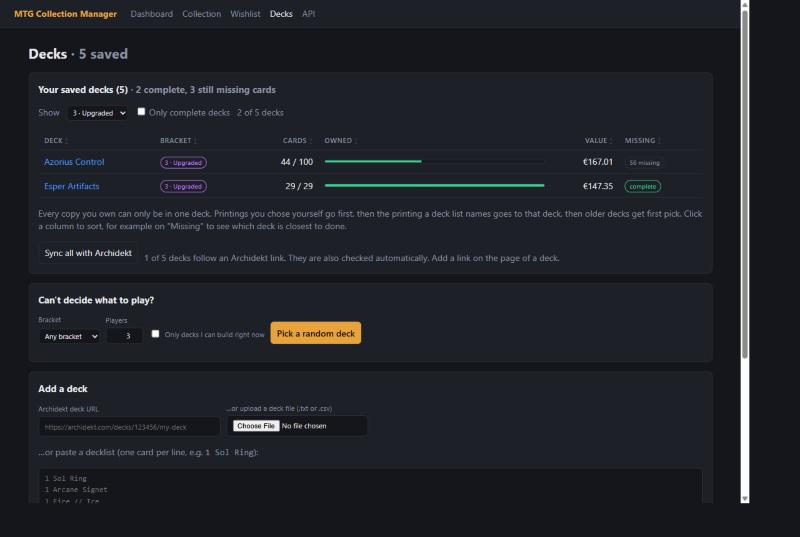
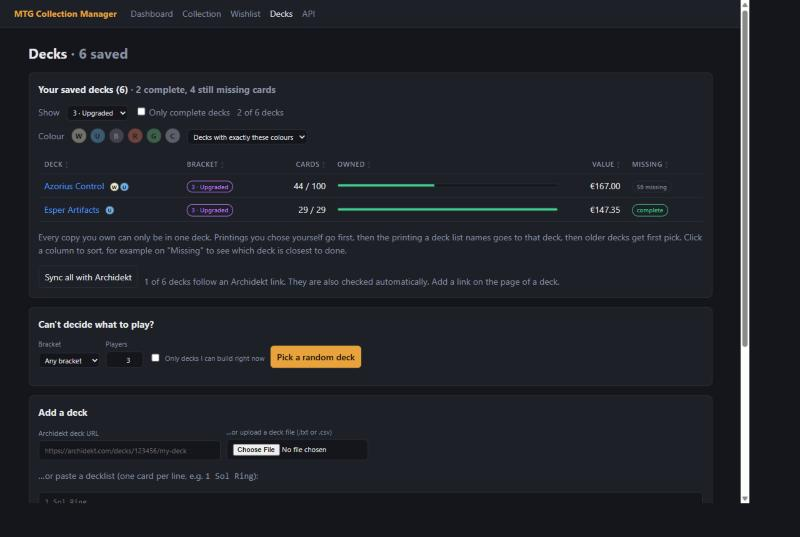
Decks: filter on colour
- A deck gets the colour identity of its cards: colours known from the
  collection, the rest looked up on Scryfall. It is worked out again when
  cards are added or an Archidekt sync adds or removes cards.
- Colour buttons on the saved decks: decks with exactly, any of, or within
  the chosen colours. Every deck shows its colours.
- The API lists the colours of a deck and takes ?colors= and ?color_match=.
- README screenshots updated.

diff --git a/app/templates/deck.html b/app/templates/deck.html
@@ -84,6 +84,20 @@
     <label class="check muted"><input id="deck-complete-filter" type="checkbox">&nbsp;Only complete decks</label>
     <span id="deck-filter-count" class="muted"></span>
   </div>
+  <div class="toolbar search-bar color-bar">
+    <span class="muted">Colour</span>
+    <span id="deck-colors" class="color-filter" role="group" aria-label="Filter decks on colour">
+      {% for letter, label in [("W", "White"), ("U", "Blue"), ("B", "Black"), ("R", "Red"), ("G", "Green"), ("C", "Colourless")] %}
+      <button type="button" class="pip pip-{{ letter }}" data-color="{{ letter }}" aria-pressed="false" title="{{ label }}">{{ letter }}</button>
+      {% endfor %}
+    </span>
+    <select id="deck-color-mode" aria-label="How the chosen colours must match">
+      <option value="exact">Decks with exactly these colours</option>
+      <option value="any">Decks with any of these colours</option>
+      <option value="within">Decks within these colours</option>
+    </select>
+    <button type="button" class="link" id="deck-colors-reset" hidden>Clear colours</button>
+  </div>
   <p id="deck-filter-empty" class="muted" hidden>No decks match that filter.</p>
   <table id="deck-list">
     <thead>
@@ -100,8 +114,10 @@
     {% for s in summaries %}
     <tr data-bracket="{{ s.deck.bracket if s.deck.bracket else 'none' }}" data-complete="{{ 1 if s.complete else 0 }}"
         data-order="{{ loop.index }}" data-name="{{ s.deck.name }}" data-bracket-number="{{ s.deck.bracket or '' }}"
-        data-cards="{{ s.total_cards }}" data-percent="{{ s.percent }}" data-value="{{ s.value }}" data-missing="{{ s.needed - s.usable }}">
-      <td><a href="/decks/{{ s.deck.id }}">{{ s.deck.name }}</a>{% if s.deck.archidekt_id %} <span class="badge linked" title="Follows its deck on Archidekt">↻ Archidekt</span>{% endif %}</td>
+        data-cards="{{ s.total_cards }}" data-percent="{{ s.percent }}" data-value="{{ s.value }}" data-missing="{{ s.needed - s.usable }}"
+        data-colors="{{ '?' if s.deck.colors is none else s.deck.colors }}">
+      <td><a href="/decks/{{ s.deck.id }}">{{ s.deck.name }}</a>
+        {% if s.deck.colors is not none %}<span class="pips" title="Colour identity">{% for letter in s.deck.colors or "C" %}<span class="pip pip-{{ letter }}">{{ letter }}</span>{% endfor %}</span>{% endif %}{% if s.deck.archidekt_id %} <span class="badge linked" title="Follows its deck on Archidekt">↻ Archidekt</span>{% endif %}</td>
       <td>{% if s.bracket_name %}<span class="badge bracket">{{ s.deck.bracket }} · {{ s.bracket_name }}</span>{% else %}<span class="muted">–</span>{% endif %}</td>
       <td class="num" title="Cards you have / cards in the deck, basic lands included">{{ s.total_owned }} / {{ s.total_cards }}</td>
       <td style="width: 35%"><div class="progress slim"><div style="width: {{ s.percent }}%"></div></div></td>
@@ -408,16 +424,41 @@
   const completeFilter = document.getElementById("deck-complete-filter");
   const deckListRows = [...document.querySelectorAll("#deck-list tr[data-bracket]")];
 
+  // Colour filter: the pressed buttons, and how a deck's colours must match them.
+  const deckColorButtons = [...document.querySelectorAll("#deck-colors button")];
+  const deckColorMode = document.getElementById("deck-color-mode");
+  const deckColorReset = document.getElementById("deck-colors-reset");
+  const chosenDeckColors = () => deckColorButtons.filter((b) => b.getAttribute("aria-pressed") === "true").map((b) => b.dataset.color);
+  function deckColorMatch(text, chosen) {
+    if (chosen.length === 0) return true;
+    if (text === "?") return false;  // colours not worked out yet
+    const colors = new Set(text);
+    const want = chosen.filter((c) => c !== "C");
+    if (deckColorMode.value === "within") return [...colors].every((c) => want.includes(c));
+    if (deckColorMode.value === "exact") return colors.size === want.length && want.every((c) => colors.has(c));
+    return want.some((c) => colors.has(c)) || (colors.size === 0 && chosen.includes("C"));
+  }
+  try {
+    const saved = JSON.parse(localStorage.getItem("deck-colors") || "{}");
+    for (const button of deckColorButtons) button.setAttribute("aria-pressed", String((saved.colors || []).includes(button.dataset.color)));
+    if (saved.mode) deckColorMode.value = saved.mode;
+    if (!deckColorMode.value) deckColorMode.value = "exact";
+  } catch (error) {}
+
   function filterDecks() {
+    const chosen = chosenDeckColors();
+    deckColorReset.hidden = chosen.length === 0;
     let shown = 0;
     for (const row of deckListRows) {
       const match =
         (!bracketFilter.value || row.dataset.bracket === bracketFilter.value) &&
-        (!completeFilter.checked || row.dataset.complete === "1");
+        (!completeFilter.checked || row.dataset.complete === "1") &&
+        deckColorMatch(row.dataset.colors, chosen);
       row.hidden = !match;
       if (match) shown += 1;
     }
-    const filtered = bracketFilter.value || completeFilter.checked;
+    try { localStorage.setItem("deck-colors", JSON.stringify({ colors: chosen, mode: deckColorMode.value })); } catch (error) {}
+    const filtered = bracketFilter.value || completeFilter.checked || chosen.length > 0;
     document.getElementById("deck-filter-count").textContent = filtered ? `${shown} of ${deckListRows.length} decks` : "";
     document.getElementById("deck-filter-empty").hidden = shown > 0;
     document.getElementById("deck-list").hidden = shown === 0;
@@ -430,6 +471,17 @@
   } catch (error) {}
   bracketFilter.addEventListener("change", filterDecks);
   completeFilter.addEventListener("change", filterDecks);
+  for (const button of deckColorButtons) {
+    button.addEventListener("click", () => {
+      button.setAttribute("aria-pressed", String(button.getAttribute("aria-pressed") !== "true"));
+      filterDecks();
+    });
+  }
+  deckColorMode.addEventListener("change", filterDecks);
+  deckColorReset.addEventListener("click", () => {
+    for (const button of deckColorButtons) button.setAttribute("aria-pressed", "false");
+    filterDecks();
+  });
   filterDecks();
 </script>
 <script>

diff --git a/app/services/decks.py b/app/services/decks.py
@@ -727,6 +727,8 @@ def apply_archidekt(session: Session, deck: Deck, data: dict) -> SyncResult:
         result.other.append(f"renamed from {deck.name}")
         deck.name = name
     deck.synced_at = utcnow()
+    if result.added or result.removed:
+        deck.colors = None  # worked out again by fill_deck_colors
     session.add(deck)
     session.flush()
     return result
@@ -752,6 +754,40 @@ async def sync_all_decks(session: Session, pause: float = 1.0) -> list[SyncResul
             logger.warning("Could not sync deck %s with Archidekt: %s", deck.name, exc)
             results.append(SyncResult(deck, error=str(exc)))
     return results
+
+
+async def fill_deck_colors(session: Session, scryfall: ScryfallClient) -> int:
+    """Work out the colour identity of decks that have none yet: the colours of all their cards.
+
+    Colours of cards in the collection are known already; the rest are looked up on Scryfall.
+    Returns the number of decks that got their colours."""
+    pending = session.exec(select(Deck).where(Deck.colors == None)).all()  # noqa: E711
+    if not pending:
+        return 0
+    entries = session.exec(select(DeckEntry).where(DeckEntry.deck_id.in_([deck.id for deck in pending]))).all()
+    known: dict[str, str] = {}
+    for card in session.exec(select(Card).where(Card.colors != None)).all():  # noqa: E711
+        for key in _names(card.name):
+            known.setdefault(key, card.colors)
+    lookups: dict[str, dict] = {}
+    for entry in entries:
+        if not _names(entry.name) & known.keys():
+            lookups.setdefault(name_key(entry.name), {"id": entry.scryfall_id} if entry.scryfall_id else {"name": entry.name})
+    if lookups:
+        found, _ = await scryfall.get_collection(list(lookups.values()))
+        for data in found:
+            if data.colors is not None:
+                for key in _names(data.name):
+                    known.setdefault(key, data.colors)
+    for deck in pending:
+        colors = set()
+        for entry in entries:
+            if entry.deck_id == deck.id:
+                colors.update(next((known[key] for key in _names(entry.name) if key in known), ""))
+        deck.colors = "".join(c for c in "WUBRG" if c in colors)
+        session.add(deck)
+    session.commit()
+    return len(pending)
 
 
 def set_archidekt_link(session: Session, deck: Deck, url: str | None) -> bool:
@@ -826,6 +862,8 @@ async def add_card(
     entry = next((e for e in entries if _names(e.name) & _names(data.name)), None)
     if entry is None:
         entry = DeckEntry(deck_id=deck.id, name=data.name, quantity=0)
+        deck.colors = None  # worked out again by fill_deck_colors
+        session.add(deck)
     entry.quantity += quantity
     if set_code:  # the user named a printing: that is what this deck asks for from now on
         entry.set_code, entry.collector_number = data.set_code, data.collector_number

diff --git a/app/routers/api.py b/app/routers/api.py
@@ -325,7 +325,7 @@ def _deck_out(summary: decks.DeckSummary) -> DeckOut:
         cards_usable=summary.usable, complete=summary.complete, value=summary.value,
         bracket=summary.deck.bracket, bracket_name=summary.bracket_name, basic_land_count=summary.basic_lands,
         deck_size=summary.total_cards, deck_owned=summary.total_owned,
-        archidekt_url=decks.deck_url(summary.deck), synced_at=summary.deck.synced_at,
+        archidekt_url=decks.deck_url(summary.deck), synced_at=summary.deck.synced_at, colors=summary.deck.colors,
     )
 
 
@@ -340,12 +340,24 @@ def _deck_detail(session: Session, deck: Deck) -> DeckDetailOut:
 
 
 @router.get("/decks", response_model=list[DeckOut])
-def list_decks(bracket: int | None = None, session: Session = Depends(get_session)):
-    """The saved decks; `bracket` (1-5) keeps only the decks in that Commander bracket."""
+async def list_decks(
+    bracket: int | None = None,
+    colors: str | None = None,
+    color_match: Literal["any", "within", "exact"] = "any",
+    session: Session = Depends(get_session),
+    scryfall: ScryfallClient = Depends(get_scryfall),
+):
+    """The saved decks; `bracket` (1-5) keeps only the decks in that Commander bracket, `colors`
+    (letters from WUBRG, C for colourless) the decks with any, `within` or `exact`ly those colours."""
+    try:
+        await decks.fill_deck_colors(session, scryfall)
+    except ScryfallError:
+        session.rollback()  # the list still works, new decks just have no colours yet
     return [
         _deck_out(summary)
         for summary in decks.deck_summaries(session)
-        if bracket is None or summary.deck.bracket == bracket
+        if (bracket is None or summary.deck.bracket == bracket)
+        and (not colors or collection.color_match(summary.deck.colors, colors, color_match))
     ]
 
 

diff --git a/tests/test_api.py b/tests/test_api.py
@@ -446,3 +446,27 @@ async def test_colours_are_filled_in_for_cards_stored_earlier(session, scryfall,
     assert await fill_missing_colors(session, scryfall) == 1
     assert session.exec(select(Card).where(Card.scryfall_id == "id-fire")).one().colors == "UR"
     assert await fill_missing_colors(session, scryfall) == 0
+
+
+def test_filter_decks_on_colour(client):
+    client.post("/api/collection", json={"name": "Lim-Dûl's Vault"})  # colours known from the collection
+    grixis = client.post("/api/decks", json={"name": "Grixis", "decklist": "1 Lim-Dûl's Vault\n1 Fire // Ice\n1 Sol Ring"}).json()
+    client.post("/api/decks", json={"name": "Artifacts", "decklist": "1 Sol Ring\n1 Black Lotus"})
+
+    def names(**params):
+        return {d["name"]: d["colors"] for d in client.get("/api/decks", params=params).json()}
+
+    assert names() == {"Grixis": "UBR", "Artifacts": ""}  # Fire // Ice was looked up on Scryfall
+    assert names(colors="UBR", color_match="exact") == {"Grixis": "UBR"}
+    assert names(colors="R") == {"Grixis": "UBR"}
+    assert names(colors="C") == {"Artifacts": ""}
+    assert names(colors="UB", color_match="within") == {"Artifacts": ""}
+
+    page = client.get("/deck").text
+    assert 'data-colors="UBR"' in page and 'id="deck-colors"' in page
+
+    # A card added to a deck changes its colours.
+    artifacts = next(d for d in client.get("/api/decks").json() if d["name"] == "Artifacts")
+    client.post(f"/api/decks/{artifacts['id']}/cards", json={"name": "Fire // Ice"})
+    assert names()["Artifacts"] == "UR"
+    assert grixis["colors"] is None  # worked out when the decks are listed

diff --git a/app/routers/pages.py b/app/routers/pages.py
@@ -1,5 +1,6 @@
 """Server-rendered pages (Jinja2) and the HTML forms behind them."""
 
+import logging
 from pathlib import PurePath
 from urllib.parse import quote
 
@@ -19,6 +20,7 @@ from app.routers.api import load_deck
 from app.scryfall import CardRef, ScryfallClient, ScryfallError
 from app.services import collection, decks, stats, wishlist
 
+logger = logging.getLogger(__name__)
 router = APIRouter(include_in_schema=False)
 templates = Jinja2Templates(directory=BASE_DIR / "templates")
 
@@ -322,10 +324,22 @@ def _wishlist_refs(cards: list[str]) -> list[CardRef]:
 
 
 @router.get("/deck")
-def deck_page(request: Request, session: Session = Depends(get_session)):
+async def deck_page(
+    request: Request, session: Session = Depends(get_session), scryfall: ScryfallClient = Depends(get_scryfall)
+):
+    await _fill_deck_colors(session, scryfall)
     summaries = decks.deck_summaries(session)
     return render(request, "deck.html", rows=None, deck=None, summaries=summaries, brackets=decks.BRACKETS,
                   deck_data=_deck_data(summaries))
+
+
+async def _fill_deck_colors(session: Session, scryfall: ScryfallClient) -> None:
+    """New or changed decks get their colours; without Scryfall the list still shows, just without them."""
+    try:
+        await decks.fill_deck_colors(session, scryfall)
+    except ScryfallError as exc:
+        logger.warning("Could not work out deck colours: %s", exc)
+        session.rollback()
 
 
 def _deck_data(summaries: list[decks.DeckSummary]) -> list[dict]:

diff --git a/tests/test_decks.py b/tests/test_decks.py
@@ -742,6 +742,6 @@ def test_decks_can_be_sorted_on_missing_cards(client):
     for key in ("name", "bracketNumber", "cards", "percent", "value", "missing"):
         assert f'data-sort="{key}"' in page
     assert 'data-order="1" data-name="Burn" data-bracket-number="4"' in page
-    assert 'data-cards="5" data-percent="0" data-value="0' in page and 'data-missing="5">' in page
+    assert 'data-cards="5" data-percent="0" data-value="0' in page and 'data-missing="5"' in page
     assert 'data-order="2" data-name="Ramp"' in page and 'data-cards="11" data-percent="100" data-value="1.5" data-missing="0"' in page
     assert page.count('id="deck-list"') == 1 and "<tbody>" in page

diff --git a/app/jobs.py b/app/jobs.py
@@ -150,11 +150,14 @@ async def run_collection_update() -> None:
 
 
 async def run_fill_colors() -> None:
+    from app.services.decks import fill_deck_colors
+
     try:
         with Session(engine) as session:
             filled = await fill_missing_colors(session, deps.get_scryfall())
-        if filled:
-            logger.info("Colours filled in for %s cards", filled)
+            decks = await fill_deck_colors(session, deps.get_scryfall())
+        if filled or decks:
+            logger.info("Colours filled in for %s cards and %s decks", filled, decks)
     except Exception:
         logger.exception("Filling in colours failed")
 

diff --git a/app/database.py b/app/database.py
@@ -27,7 +27,7 @@ def add_missing_columns(target=None) -> None:
         return
     added = {
         "card": {"colors": "VARCHAR"},
-        "deck": {"bracket": "INTEGER", "archidekt_id": "INTEGER", "synced_at": "DATETIME"},
+        "deck": {"bracket": "INTEGER", "archidekt_id": "INTEGER", "synced_at": "DATETIME", "colors": "VARCHAR"},
         "deckentry": {
             "unassigned": "BOOLEAN NOT NULL DEFAULT 0",
             "set_code": "VARCHAR",

diff --git a/app/models.py b/app/models.py
@@ -78,6 +78,8 @@ class Deck(SQLModel, table=True):
     # The Archidekt deck this one follows: changes made there are taken over here.
     archidekt_id: int | None = None
     synced_at: dt.datetime | None = None
+    # Colour identity of its cards, letters in WUBRG order; None: to be worked out (again).
+    colors: str | None = None
 
 
 class DeckEntry(SQLModel, table=True):

diff --git a/app/schemas.py b/app/schemas.py
@@ -253,6 +253,8 @@ class DeckOut(BaseModel):
     # The Archidekt deck this deck follows, and when it was last brought up to date.
     archidekt_url: str | None = None
     synced_at: dt.datetime | None = None
+    # Colour identity of the deck's cards, letters in WUBRG order; null until it is worked out.
+    colors: str | None = None
 
 
 class DeckLinkIn(BaseModel):

diff --git a/README.md b/README.md
@@ -35,7 +35,9 @@ price.
 
 ![Printings without a price of their own borrow one from another printing, marked ≈ SET (Dragon Egg and Fellwar Stone)](docs/collection-borrowed.jpg)
 
-![The saved decks filtered on bracket 3: two of the five decks are left](docs/decks-filter.jpg)
+![The saved decks filtered on bracket 3: two of the six decks are left](docs/decks-filter.jpg)
+
+![The saved decks filtered on colour: the decks with green in them, each with its colours](docs/decks-colors.jpg)
 
 ![The saved decks sorted on missing cards: the decks closest to done first](docs/decks-sorted.jpg)
 
@@ -101,6 +103,7 @@ price.
 - One "Save changes" button per deck: bracket, basic lands and chosen printings are edited freely and stored together, with a reminder while there are unsaved changes
 - Commander bracket per deck: taken from Archidekt when the deck has one, and changeable at any time
 - Filter the list of saved decks by bracket, or show only the decks that are complete
+- Filter the saved decks on colour: every deck shows the colour identity of its cards, and you pick decks with exactly, any of, or within the chosen colours
 - Sort the saved decks by how many cards they still miss, or by name, bracket, size, progress or value
 - Follow an Archidekt deck: a deck saved from an Archidekt link (or given one later) is brought up to date when the deck changes there, automatically every few hours or with "Sync now"; printings you chose and cards you took out are kept
 - The printing from the deck list comes along: an Archidekt deck (or a text list with sets) knows the set and card number of every card. If you own that printing it goes to that deck, also when another deck had taken it only because any copy would do, and missing cards go on the wishlist in that printing
@@ -181,7 +184,7 @@ product page. Two things to know:
 | `GET` | `/api/cards/{id}/prices` | Price history of one card |
 | `GET` | `/api/summary` | Collection value vs. wishlist cost |
 | `POST` | `/api/decks/check` | Have/missing overview for a decklist or Archidekt URL |
-| `GET` / `POST` | `/api/decks` | List saved decks / save a deck and set its cards aside |
+| `GET` / `POST` | `/api/decks` | List saved decks (`?bracket=`, `?colors=WG&color_match=exact\|any\|within`) / save a deck and set its cards aside |
 | `GET` | `/api/decks/random` | Pick random decks (`count`, `bracket`, `complete_only`) |
 | `GET` / `DELETE` | `/api/decks/{id}` | A saved deck with its cards / delete it and free its cards |
 | `PUT` | `/api/decks/{id}/cards/{entry_id}/printing` | Choose which printing a deck uses for a card |
